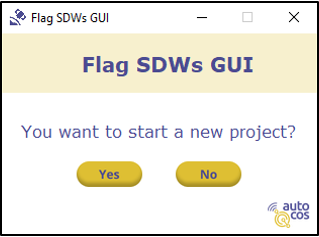
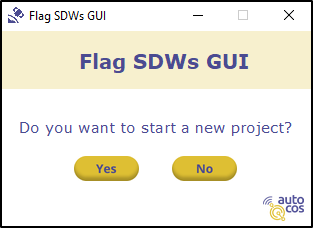
grammatical error

diff --git a/build/gui_ask_start.py b/build/gui_ask_start.py
@@ -51,9 +51,9 @@ canvas.create_text(
     19.0,
     87.0,
     anchor="nw",
-    text="You want to start a new project?",
+    text="Do you want to start a new project?",
     fill="#4B4B91",
-    font=("Verdana", 16 * -1)
+    font=("Verdana", 15 * -1)
 )
 
 canvas.create_rectangle(
